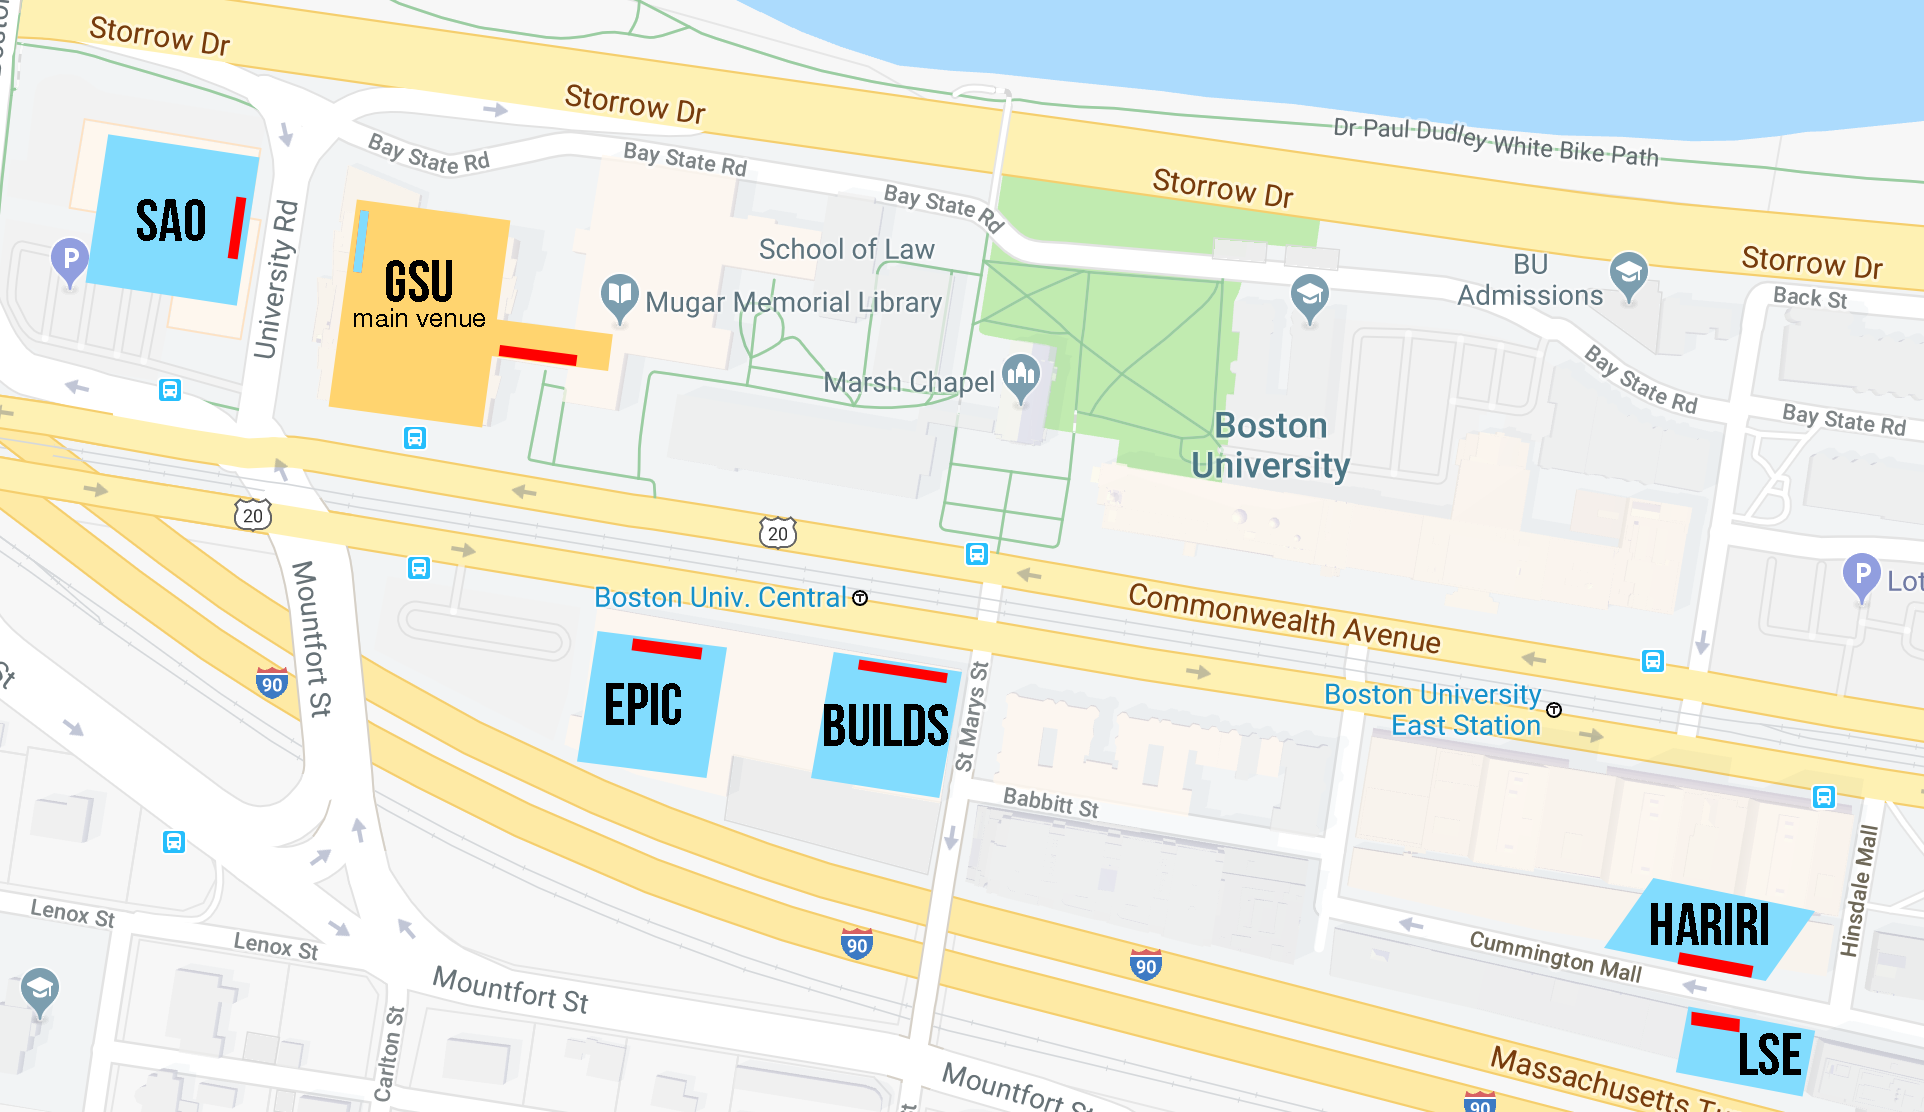
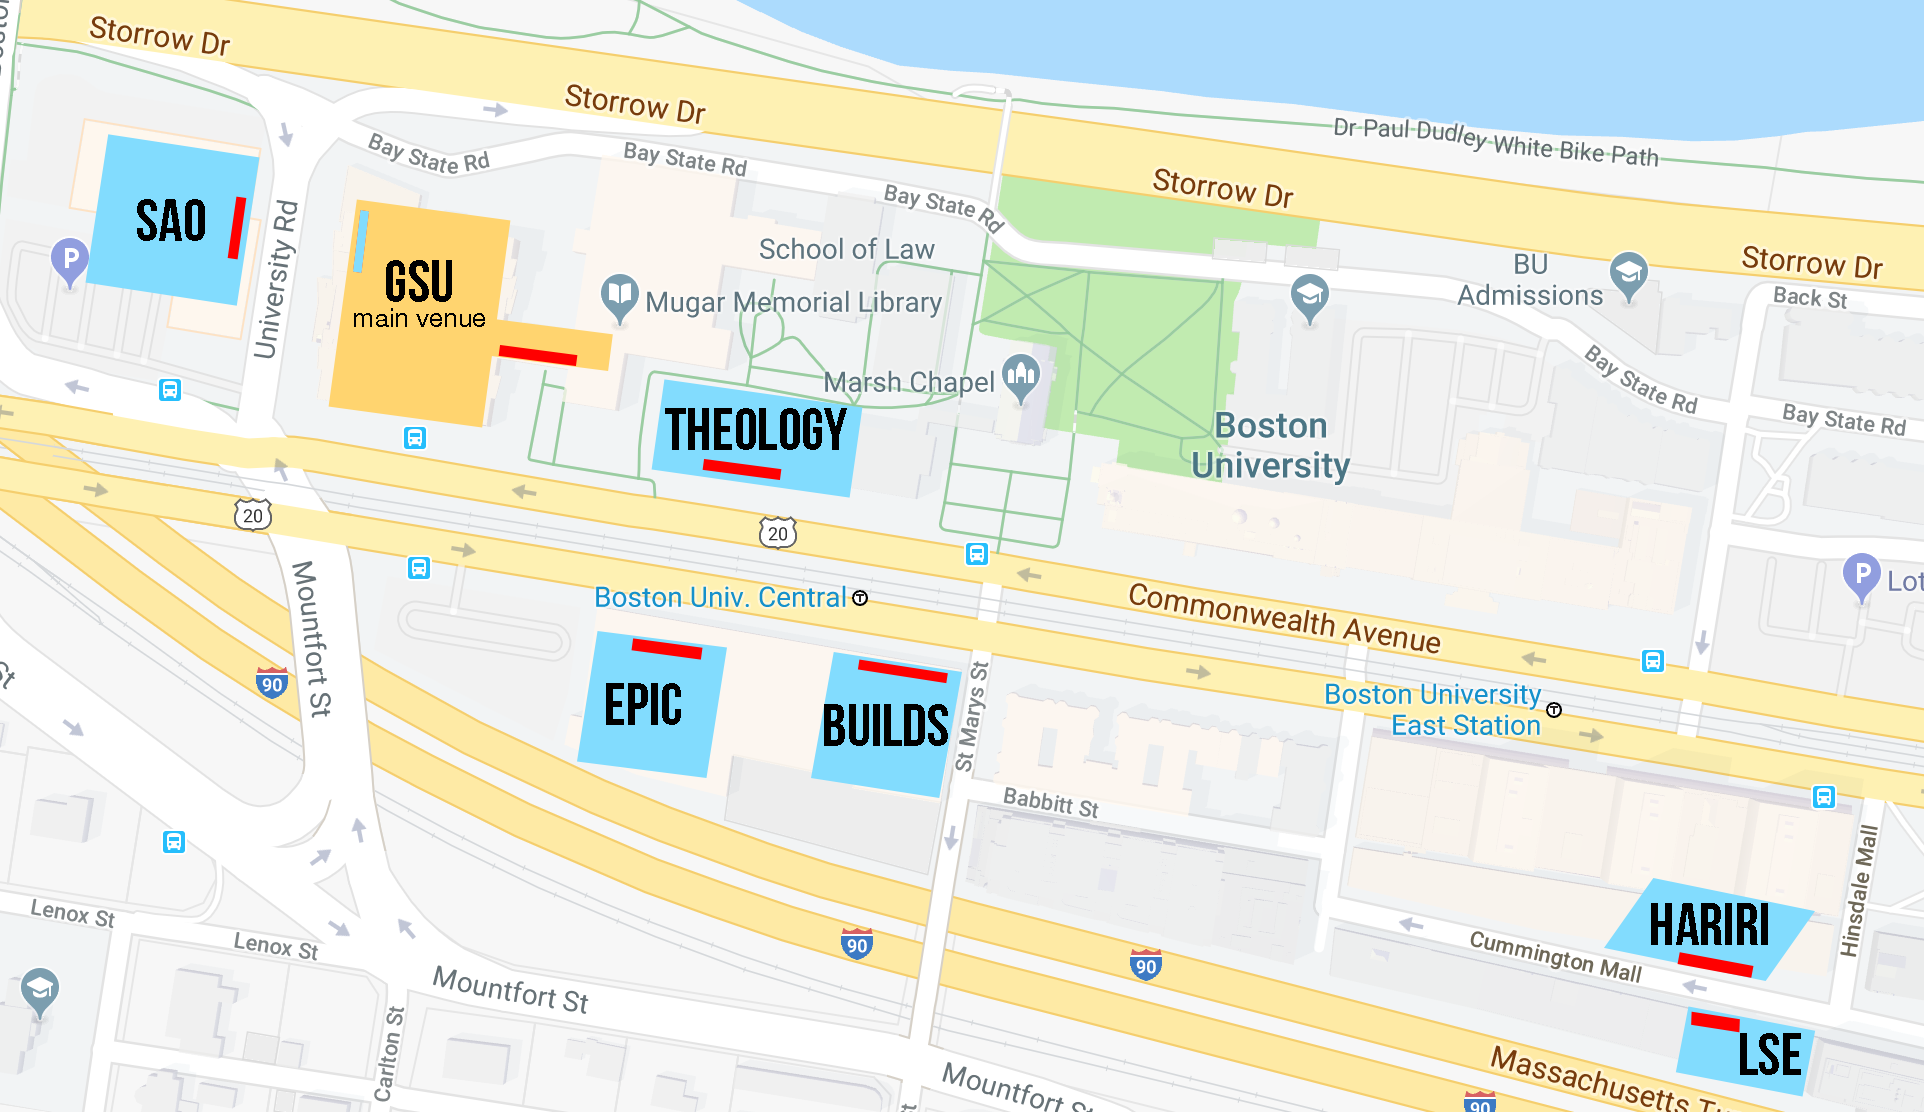
updated maps, updated mobile and menus

Changed region(s): [[0.343, 0.3363, 0.4678, 0.4586]]

diff --git a/maps.html b/maps.html
@@ -52,7 +52,7 @@
     <a href="index.html">Home</a>
     <a href="schedule.html">Schedule</a>
     <a href="workshops.html">Workshops</a>
-    <a href="#!">Map</a>
+    <a href="maps.html">Map</a>
     <a href="prizes.html">Challenges &amp; Prizes</a>
     <a href="faq.html">FAQ</a>
   </div>
@@ -75,7 +75,7 @@
     <li><a href="index.html">Home</a></li>
     <li><a href="schedule.html">Schedule</a></li>
     <li><a href="workshops.html">Workshops</a></li>
-    <li><a href="#!">Map</a></li>
+    <li><a href="maps.html">Map</a></li>
     <li><a href="prizes.html">Challenges &amp; Prizes</a></li>
     <li><a href="faq.html">FAQ</a></li>
     <!-- <li><a href="http://shehacks.io">Full Site</a></li> -->
@@ -105,14 +105,39 @@
     <div class="row" style="display:block;">
       <img src="img/maps/buildings.png" alt="" class="map">
     </div>
-    <div class="row">
-      <div class="col-sm-2">
+    <div class="row" style="text-align:center;">
+      <p style="width:100%;">The red areas show where the main entrance for each building is located, GSU is the primary venue space (highlighted in orange). The blue rectangle in GSU shows the back exit that leads to SAO.</p>
+    </div>
+    <div class="row" style="text-align:center;">
+      <div class="col-sm-3" style="background:#FFD46F">
         <h3>GSU <br><span class="map-subtitle">Main Venue</span></h3>
         <p>725 Commonwealth Ave</p>
       </div>
-      <div class="col-sm-2">
+      <div class="col-sm-3">
         <h3>SAO <br><span class="map-subtitle">Sleeping Area</span></h3>
         <p>1 University Rd</p>
+      </div>
+      <div class="col-sm-3">
+        <h3>EPIC <br><span class="map-subtitle">Hacking Space &amp; Workshops</span></h3>
+        <p>750 Commonwealth Ave</p>
+      </div>
+      <div class="col-sm-3">
+        <h3>BUILDS <br><span class="map-subtitle">Workshops</span></h3>
+        <p>730 Commonwealth Ave</p>
+      </div>
+    </div>
+    <div class="row" style="text-align:center;">
+      <div class="col-sm-3">
+        <h3>HARIRI <br><span class="map-subtitle">Hacking Space</span></h3>
+        <p>111 Cummington Mall</p>
+      </div>
+      <div class="col-sm-3">
+        <h3>LSE <br><span class="map-subtitle">Workshops</span></h3>
+        <p>24 Cummington Mall</p>
+      </div>
+      <div class="col-sm-3">
+        <h3>THEOLOGY <br><span class="map-subtitle">Hacking Space, Sleeping Area, &amp; Workshops</span></h3>
+        <p>745 Commonwealth Ave</p>
       </div>
     </div>
     <div class="row">

diff --git a/faq.html b/faq.html
@@ -52,7 +52,7 @@
     <a href="index.html">Home</a>
     <a href="schedule.html">Schedule</a>
     <a href="workshops.html">Workshops</a>
-    <a href="#!">Map</a>
+    <a href="maps.html">Map</a>
     <a href="prizes.html">Challenges &amp; Prizes</a>
     <a href="faq.html">FAQ</a>
   </div>
@@ -75,7 +75,7 @@
     <li><a href="index.html">Home</a></li>
     <li><a href="schedule.html">Schedule</a></li>
     <li><a href="workshops.html">Workshops</a></li>
-    <li><a href="#!">Map</a></li>
+    <li><a href="maps.html">Map</a></li>
     <li><a href="prizes.html">Challenges &amp; Prizes</a></li>
     <li><a href="faq.html">FAQ</a></li>
     <!-- <li><a href="http://shehacks.io">Full Site</a></li> -->

diff --git a/prizes.html b/prizes.html
@@ -52,7 +52,7 @@
     <a href="index.html">Home</a>
     <a href="schedule.html">Schedule</a>
     <a href="workshops.html">Workshops</a>
-    <a href="#!">Map</a>
+    <a href="maps.html">Map</a>
     <a href="prizes.html">Challenges &amp; Prizes</a>
     <a href="faq.html">FAQ</a>
   </div>
@@ -75,7 +75,7 @@
     <li><a href="index.html">Home</a></li>
     <li><a href="schedule.html">Schedule</a></li>
     <li><a href="workshops.html">Workshops</a></li>
-    <li><a href="#!">Map</a></li>
+    <li><a href="maps.html">Map</a></li>
     <li><a href="prizes.html">Challenges &amp; Prizes</a></li>
     <li><a href="faq.html">FAQ</a></li>
     <!-- <li><a href="http://shehacks.io">Full Site</a></li> -->

diff --git a/workshops.html b/workshops.html
@@ -54,7 +54,7 @@
   <a href="index.html">Home</a>
   <a href="schedule.html">Schedule</a>
   <a href="workshops.html">Workshops</a>
-  <a href="#!">Map</a>
+  <a href="maps.html">Map</a>
   <a href="prizes.html">Challenges &amp; Prizes</a>
   <a href="faq.html">FAQ</a>
 </div>
@@ -78,7 +78,7 @@
     <li><a href="index.html">Home</a></li>
     <li><a href="schedule.html">Schedule</a></li>
     <li><a href="workshops.html">Workshops</a></li>
-    <li><a href="#!">Map</a></li>
+    <li><a href="maps.html">Map</a></li>
     <li><a href="prizes.html">Challenges &amp; Prizes</a></li>
     <li><a href="faq.html">FAQ</a></li>
     <!-- <li><a href="http://shehacks.io">Full Site</a></li> -->

diff --git a/index.html b/index.html
@@ -64,7 +64,7 @@
 <a href="index.html">Home</a>
       <a href="schedule.html">Schedule</a>
       <a href="workshops.html">Workshops</a>
-      <a href="#!">Map</a>
+      <a href="maps.html">Map</a>
       <a href="prizes.html">Challenges &amp; Prizes</a>
       <a href="faq.html">FAQ</a>
 </div>
@@ -86,7 +86,7 @@ function closeNav() {
     <li><a href="index.html">Home</a></li>
     <li><a href="schedule.html">Schedule</a></li>
     <li><a href="workshops.html">Workshops</a></li>
-    <li><a href="#!">Map</a></li>
+    <li><a href="maps.html">Map</a></li>
     <li><a href="prizes.html">Challenges &amp; Prizes</a></li>
     <li><a href="faq.html">FAQ</a></li>
 

diff --git a/css/main.css b/css/main.css
@@ -598,6 +598,10 @@ ul li {
   #faq_header{
     display: none;
   }
+
+    p.map-info{
+      padding-top:.2em;
+    }
 }
 
 @media only screen and (min-width: 550px) {
@@ -635,5 +639,4 @@ ul li {
 .map-subtitle{
   font-size:.8em;
   font-weight: normal;
-
 }
